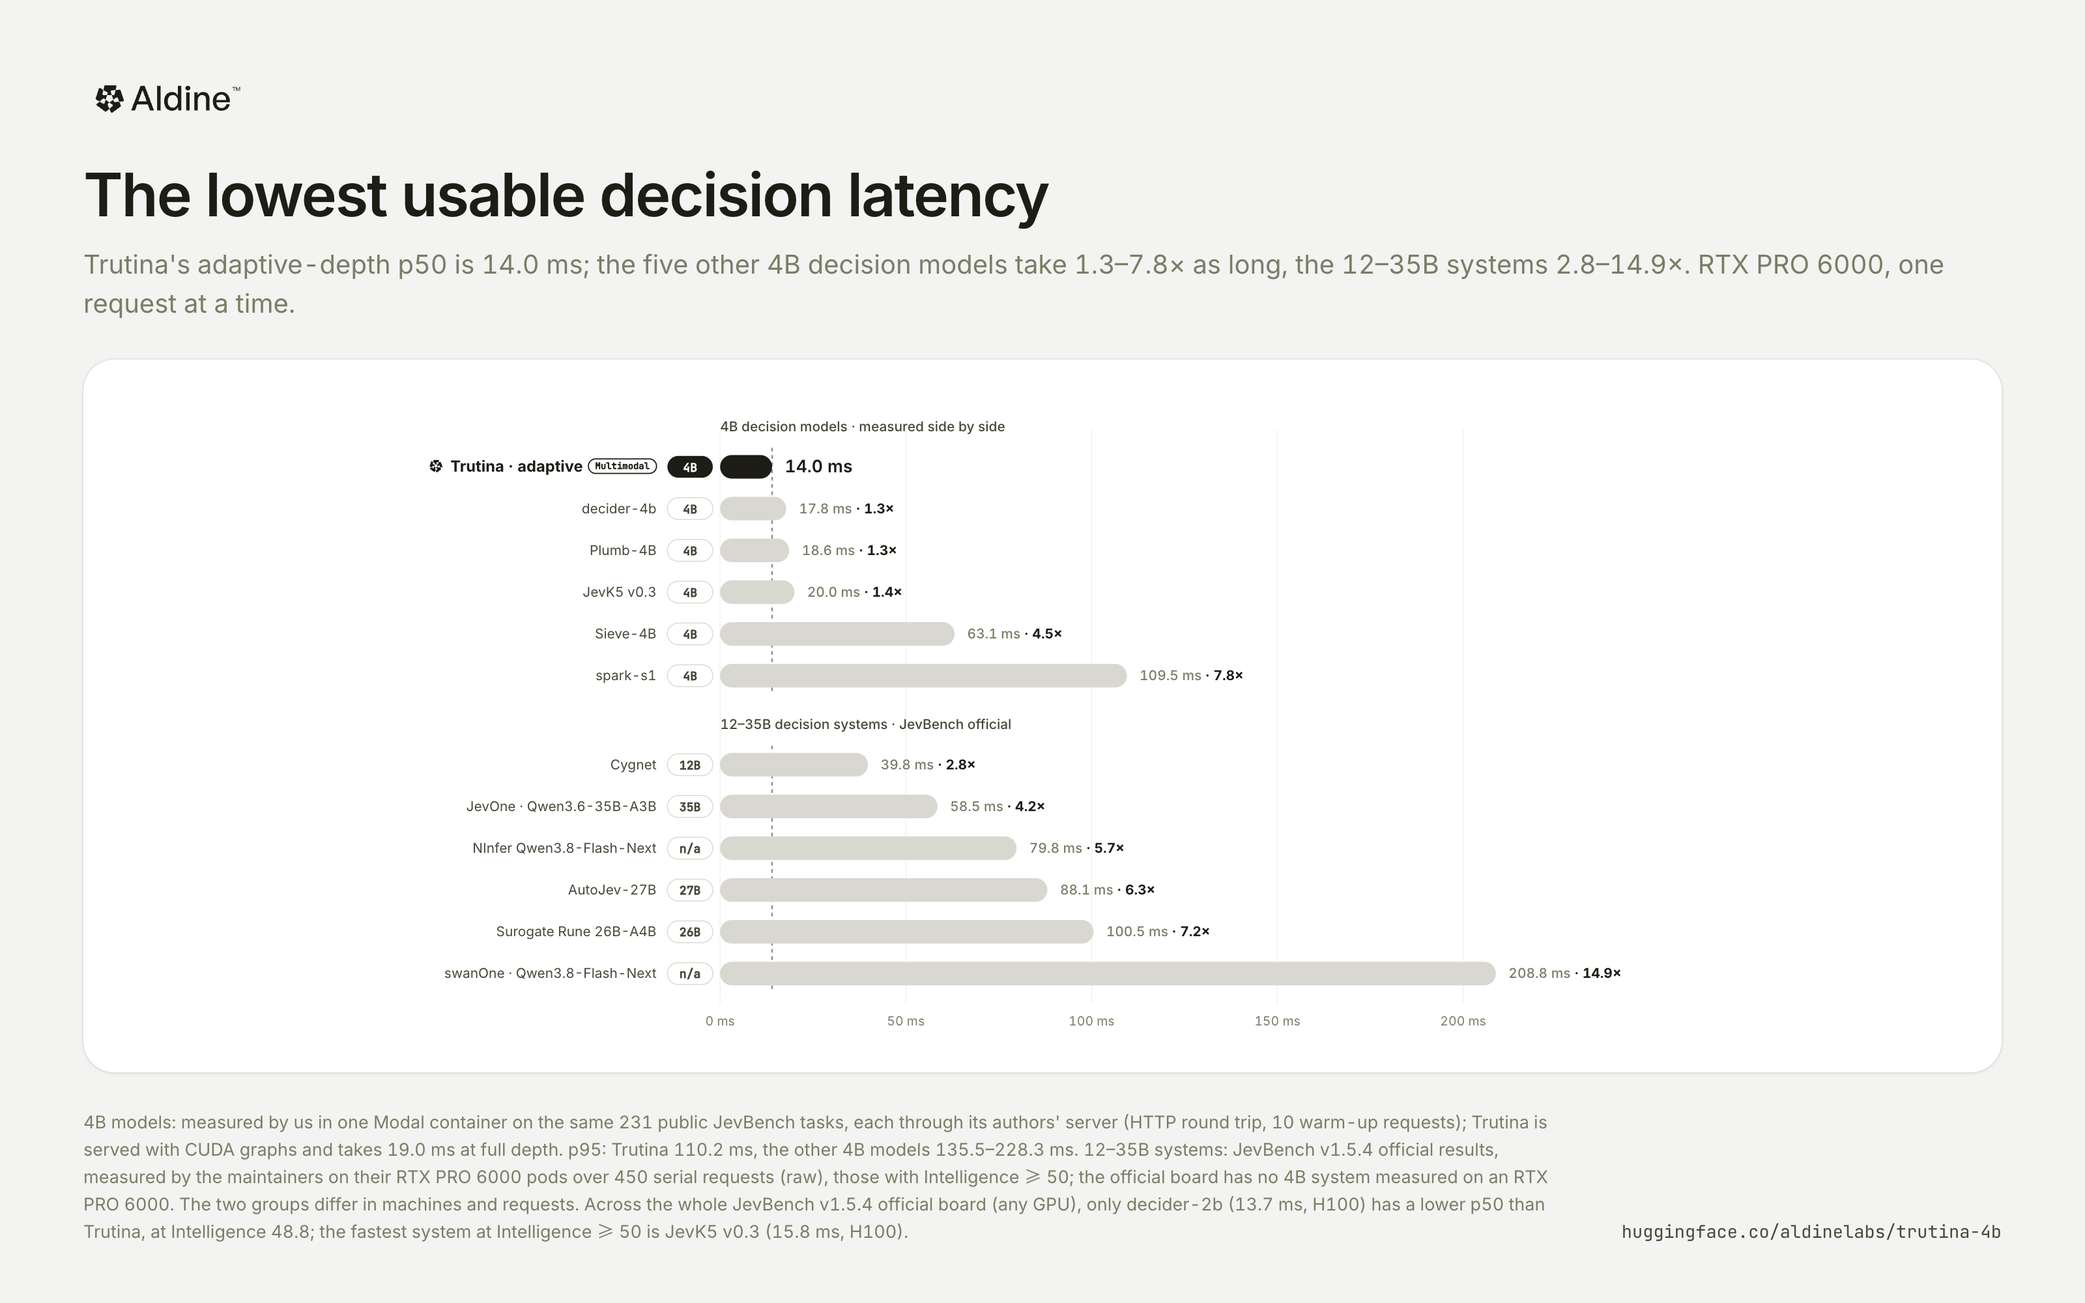
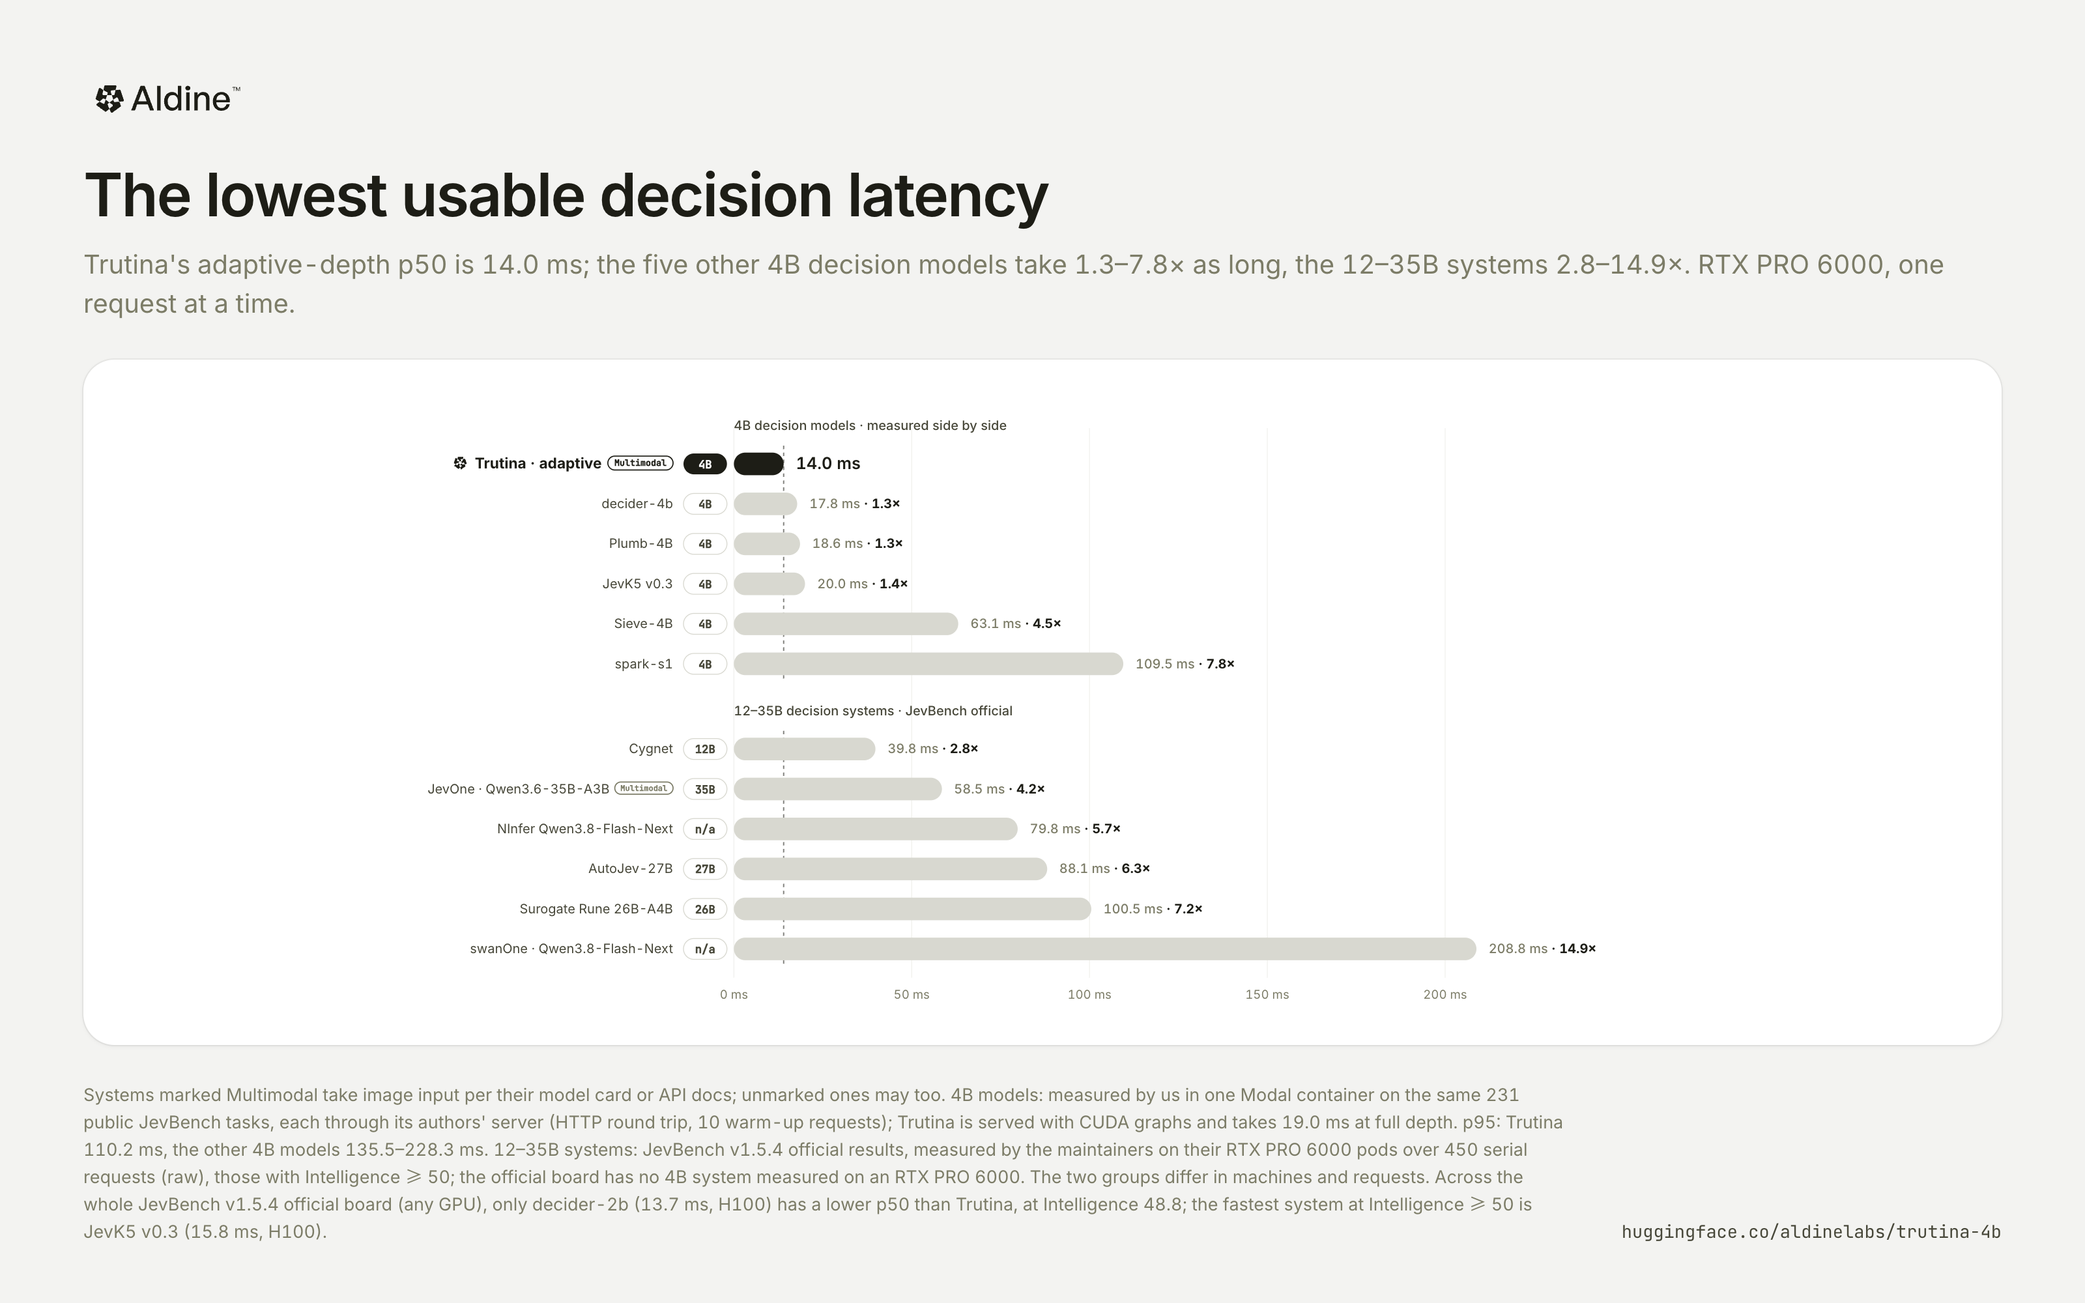
docs: charts mark every system confirmed to take images as multimodal, not only Trutina

Changed region(s): [[0.2188, 0.31, 0.7188, 0.775], [0.0312, 0.837, 0.75, 0.961]]

diff --git a/assets/charts/charts.html b/assets/charts/charts.html
@@ -111,23 +111,27 @@ const esc = s => String(s).replace(/[&<>"]/g, c => ({ "&": "&amp;", "<": "&lt;",
 const fmt1 = v => (Math.round(v * 10) / 10).toFixed(1);
 const ms = " ms";
 const MARK = "brand/aldine-symbol.svg", MK = `<img class="mk" src="${MARK}" alt="">`, PILL = `<span class="pill4">4B</span>`;
+const VNOTE = () => zh ? "标「多模态」的系统经模型卡或 API 文档确认可接受图像输入；未标注的不一定不支持。" : "Systems marked Multimodal take image input per their model card or API docs; unmarked ones may too. ";
+const VISION = n => /^(JevOne|GPT-6 Luna|GPT-5\.6 Luna|Celeris-1|Decider v1\.1)/.test(n);
 const VIS = zh ? "多模态" : "Multimodal", VPILL = `<span class="pill4 pillv">${VIS}</span>`;
 
 /* The Aldine symbol beside every label of ours: each SVG text.lbl-us gets the mark to its left, sized to the text. */
 function placeMarks() {
   const NS = "http://www.w3.org/2000/svg", el = (n, a) => { const e = document.createElementNS(NS, n); for (const k in a) e.setAttribute(k, a[k]); return e; };
-  for (const t of document.querySelectorAll("svg text.lbl-us")) {
+  for (const t of document.querySelectorAll("svg text.lbl-us, svg text[data-vision]")) {
+    const us = t.classList.contains("lbl-us");
     let b = t.getBBox();
     const h = b.height, s = Math.round(h * 0.92);
     // pills after the name: the dark 4B pill unless data-nopill, an outlined multimodal pill with data-vision;
     // a right-aligned label moves left to make room
-    const pills = [...(t.hasAttribute("data-nopill") ? [] : [["4B", true]]), ...(t.hasAttribute("data-vision") ? [[VIS, false]] : [])];
+    const pills = [...(t.hasAttribute("data-nopill") || !us ? [] : [["4B", true]]), ...(t.hasAttribute("data-vision") ? [[VIS, false]] : [])];
     if (pills.length) {
       const ph = Math.round(h * 0.78), gap = Math.round(h * 0.32), end = t.getAttribute("text-anchor") === "end";
       let after = t;
       const made = pills.map(([label, dark]) => {
-        const r = el("rect", { height: ph, rx: ph / 2, fill: dark ? "var(--fg)" : "var(--card)", stroke: dark ? "none" : "var(--fg)", "stroke-width": 1.3 });
-        const tx = el("text", { "text-anchor": "middle", style: `font: 600 ${Math.round(ph * 0.62)}px var(--mono); fill: ${dark ? "#fff" : "var(--fg)"}` });
+        const ink = us ? "var(--fg)" : "var(--muted)";
+        const r = el("rect", { height: ph, rx: ph / 2, fill: dark ? "var(--fg)" : "var(--card)", stroke: dark ? "none" : ink, "stroke-width": 1.3 });
+        const tx = el("text", { "text-anchor": "middle", style: `font: 600 ${Math.round(ph * 0.62)}px var(--mono); fill: ${dark ? "#fff" : ink}` });
         tx.textContent = label;
         after.after(r); r.after(tx); after = tx;
         const w = Math.max(Math.round(ph * 2.05), Math.ceil(tx.getComputedTextLength() + ph * 0.9));
@@ -143,7 +147,7 @@ function placeMarks() {
       }
       b = t.getBBox();
     }
-    t.parentNode.insertBefore(el("image", { href: MARK, width: s, height: s, x: b.x - s - s * 0.38, y: b.y + (b.height - s) / 2 }), t);
+    if (us) t.parentNode.insertBefore(el("image", { href: MARK, width: s, height: s, x: b.x - s - s * 0.38, y: b.y + (b.height - s) / 2 }), t);
   }
 }
 
@@ -194,7 +198,7 @@ function pareto() {
                 "Open Jev JSON Canvas": [10, 20, "start"], "OpenJev": [10, 20, "start"], "GPT-5.6 Luna": [-10, 18, "end"], "GPT-6 Luna": [-10, -10, "end"] };
   for (const r of front.filter(r => !r.us)) {
     const L = lab[r.name] || [10, -10, "start"];
-    g += `<text class="lbl" x="${x(r.p50) + L[0]}" y="${y(r.i) + L[1]}" text-anchor="${L[2]}" style="font-size:13px">${esc(r.name)} <tspan class="lbl-sub" style="font-size:12px">${fmt1(r.i)}</tspan></text>`;
+    g += `<text class="lbl" ${VISION(r.name) ? "data-vision" : ""} x="${x(r.p50) + L[0]}" y="${y(r.i) + L[1]}" text-anchor="${L[2]}" style="font-size:13px">${esc(r.name)} <tspan class="lbl-sub" style="font-size:12px">${fmt1(r.i)}</tspan></text>`;
   }
   for (const r of rows.filter(r => r.us)) {
     const cx = x(r.p50), cy = y(r.i), ad = r.mode === "adaptive";
@@ -220,12 +224,12 @@ function pareto() {
     title: "进一步推进准确率与速度的帕累托前沿",
     sub: `JevBench v1.5.4 官方榜单上 Intelligence ≥ 40 的 ${n} 个系统。按预估分，Trutina 的两种深度都落在前沿上，是 30 ms 以内唯一高于 62 分的系统。`,
     body: `<div class="card">${legend}${svgTag(W, H)}${g}</svg></div>`,
-    src: `其他系统的 Intelligence 与 p50 均为 JevBench v1.5.4 官方结果（原始延迟，在各自的测试机上测得，GPU 型号不一；经 API 评测的系统含网络往返）。Trutina 尚未经官方评测，位置为预估：延迟为我们在 RTX PRO 6000 上串行处理 231 道公开题的 p50；分数为我们按 v1.5 规则在这 231 题上的自测分，加上同一批权重的官方分与我们自测分之差的平均值（JevK5 v0.3 ${o.jevk5}、Plumb-4B ${o.plumb}、spark-s1 +${o.spark}，平均 ${B.offset_mean}），竖线为按这三个差值的最小与最大值换算出的范围。官方分含未公开的密封题，与自测分口径不同，这只是近似。`,
+    src: `${VNOTE()}其他系统的 Intelligence 与 p50 均为 JevBench v1.5.4 官方结果（原始延迟，在各自的测试机上测得，GPU 型号不一；经 API 评测的系统含网络往返）。Trutina 尚未经官方评测，位置为预估：延迟为我们在 RTX PRO 6000 上串行处理 231 道公开题的 p50；分数为我们按 v1.5 规则在这 231 题上的自测分，加上同一批权重的官方分与我们自测分之差的平均值（JevK5 v0.3 ${o.jevk5}、Plumb-4B ${o.plumb}、spark-s1 +${o.spark}，平均 ${B.offset_mean}），竖线为按这三个差值的最小与最大值换算出的范围。官方分含未公开的密封题，与自测分口径不同，这只是近似。`,
   } : {
     title: "Pushing the accuracy–speed frontier further",
     sub: `The ${n} systems on the JevBench v1.5.4 official board with Intelligence ≥ 40. On its estimated score, Trutina sits on the frontier at both depths, the only system under 30 ms above 62.`,
     body: `<div class="card">${legend}${svgTag(W, H)}${g}</svg></div>`,
-    src: `Other systems: JevBench v1.5.4 official Intelligence and p50 (raw latency, measured on each system's own pod, GPU types differ; systems scored via API include the network round trip). Trutina has no official score yet, so its position is an estimate: latency is our serial p50 on an RTX PRO 6000 over the 231 public tasks; the score is our own v1.5-rules score on those tasks plus the mean official-minus-ours difference on the same weights run both ways (JevK5 v0.3 ${o.jevk5}, Plumb-4B ${o.plumb}, spark-s1 +${o.spark}; mean ${B.offset_mean}), and the bar spans the smallest to the largest of those differences. The official score includes sealed tasks our run cannot see, so this is an approximation.`,
+    src: `${VNOTE()}Other systems: JevBench v1.5.4 official Intelligence and p50 (raw latency, measured on each system's own pod, GPU types differ; systems scored via API include the network round trip). Trutina has no official score yet, so its position is an estimate: latency is our serial p50 on an RTX PRO 6000 over the 231 public tasks; the score is our own v1.5-rules score on those tasks plus the mean official-minus-ours difference on the same weights run both ways (JevK5 v0.3 ${o.jevk5}, Plumb-4B ${o.plumb}, spark-s1 +${o.spark}; mean ${B.offset_mean}), and the bar spans the smallest to the largest of those differences. The official score includes sealed tasks our run cannot see, so this is an approximation.`,
   });
 }
 
@@ -325,7 +329,7 @@ function bigger() {
     g += `<line x1="${x(ad.p50)}" x2="${x(ad.p50)}" y1="${y + 2}" y2="${y + rs.length * rowH - 2}" stroke="var(--fg)" stroke-width="1.5" stroke-dasharray="4 4" opacity=".55"/>`;
     for (const r of rs) {
       const cy = y + rowH / 2, k = r.p50 / ad.p50;
-      g += `<text class="${r.us ? "lbl-us" : "lbl"}" data-nopill ${r.us ? "data-vision" : ""} x="${lx - 70}" y="${cy + 5}" text-anchor="end" style="font-size:${r.us ? 17 : 15}px">${esc(name(r))}</text>`;
+      g += `<text class="${r.us ? "lbl-us" : "lbl"}" data-nopill ${r.us || VISION(r.name) ? "data-vision" : ""} x="${lx - 70}" y="${cy + 5}" text-anchor="end" style="font-size:${r.us ? 17 : 15}px">${esc(name(r))}</text>`;
       g += chip(lx - 58, cy, r.size === "?" ? (zh ? "未公开" : "n/a") : r.size, r.us);
       g += bar(lx, cy - 13, x(r.p50) - lx, 26, r.us ? "var(--fg)" : "var(--pale)");
       g += r.us
@@ -341,12 +345,12 @@ function bigger() {
     title: "业界最低可用决策延迟",
     sub: `Trutina 自适应深度的 p50 为 ${fmt1(ad.p50)} ms；另外 5 个 4B 决策模型为其 ${rng(s4)} 倍，12–35B 系统为 ${rng(sl)} 倍。RTX PRO 6000，串行单请求。`,
     body: `<div class="card">${svgTag(W, H)}${g}</svg></div>`,
-    src: `4B 模型由我们在同一 Modal 容器、同一 231 道 JevBench 公开题上测得，各用其作者提供的服务端（HTTP 往返，预热 10 条）；Trutina 经 CUDA graph 服务，完整深度为 ${fmt1(full.p50)} ms。p95：Trutina ${fmt1(ad.p95)} ms，另外 5 个 4B 为 ${fmt1(Math.min(...p95s))}–${fmt1(Math.max(...p95s))} ms。12–35B 系统为 JevBench v1.5.4 官方结果，由维护方在其 RTX PRO 6000 测试机上以 450 个请求串行测得（原始值），取 Intelligence ≥ 50 者；官方榜单上没有在 RTX PRO 6000 上测得的 4B 系统。两组的测试机与请求集不同。在整个 JevBench v1.5.4 官方榜单（各型号 GPU）上，p50 低于 Trutina 的只有 decider-2b（13.7 ms，H100），其 Intelligence 为 48.8；Intelligence ≥ 50 的系统中最快的是 JevK5 v0.3（15.8 ms，H100）。`,
+    src: `${VNOTE()}4B 模型由我们在同一 Modal 容器、同一 231 道 JevBench 公开题上测得，各用其作者提供的服务端（HTTP 往返，预热 10 条）；Trutina 经 CUDA graph 服务，完整深度为 ${fmt1(full.p50)} ms。p95：Trutina ${fmt1(ad.p95)} ms，另外 5 个 4B 为 ${fmt1(Math.min(...p95s))}–${fmt1(Math.max(...p95s))} ms。12–35B 系统为 JevBench v1.5.4 官方结果，由维护方在其 RTX PRO 6000 测试机上以 450 个请求串行测得（原始值），取 Intelligence ≥ 50 者；官方榜单上没有在 RTX PRO 6000 上测得的 4B 系统。两组的测试机与请求集不同。在整个 JevBench v1.5.4 官方榜单（各型号 GPU）上，p50 低于 Trutina 的只有 decider-2b（13.7 ms，H100），其 Intelligence 为 48.8；Intelligence ≥ 50 的系统中最快的是 JevK5 v0.3（15.8 ms，H100）。`,
   } : {
     title: "The lowest usable decision latency",
     sub: `Trutina's adaptive-depth p50 is ${fmt1(ad.p50)} ms; the five other 4B decision models take ${rng(s4)}× as long, the 12–35B systems ${rng(sl)}×. RTX PRO 6000, one request at a time.`,
     body: `<div class="card">${svgTag(W, H)}${g}</svg></div>`,
-    src: `4B models: measured by us in one Modal container on the same 231 public JevBench tasks, each through its authors' server (HTTP round trip, 10 warm-up requests); Trutina is served with CUDA graphs and takes ${fmt1(full.p50)} ms at full depth. p95: Trutina ${fmt1(ad.p95)} ms, the other 4B models ${fmt1(Math.min(...p95s))}–${fmt1(Math.max(...p95s))} ms. 12–35B systems: JevBench v1.5.4 official results, measured by the maintainers on their RTX PRO 6000 pods over 450 serial requests (raw), those with Intelligence ≥ 50; the official board has no 4B system measured on an RTX PRO 6000. The two groups differ in machines and requests. Across the whole JevBench v1.5.4 official board (any GPU), only decider-2b (13.7 ms, H100) has a lower p50 than Trutina, at Intelligence 48.8; the fastest system at Intelligence ≥ 50 is JevK5 v0.3 (15.8 ms, H100).`,
+    src: `${VNOTE()}4B models: measured by us in one Modal container on the same 231 public JevBench tasks, each through its authors' server (HTTP round trip, 10 warm-up requests); Trutina is served with CUDA graphs and takes ${fmt1(full.p50)} ms at full depth. p95: Trutina ${fmt1(ad.p95)} ms, the other 4B models ${fmt1(Math.min(...p95s))}–${fmt1(Math.max(...p95s))} ms. 12–35B systems: JevBench v1.5.4 official results, measured by the maintainers on their RTX PRO 6000 pods over 450 serial requests (raw), those with Intelligence ≥ 50; the official board has no 4B system measured on an RTX PRO 6000. The two groups differ in machines and requests. Across the whole JevBench v1.5.4 official board (any GPU), only decider-2b (13.7 ms, H100) has a lower p50 than Trutina, at Intelligence 48.8; the fastest system at Intelligence ≥ 50 is JevK5 v0.3 (15.8 ms, H100).`,
   });
 }
 
@@ -360,7 +364,7 @@ function typed() {
   for (const t of [0, 20, 40, 60, 80, 100]) g += `<line x1="${x(t)}" x2="${x(t)}" y1="${top - 4}" y2="${H - 34}" stroke="var(--grid)"/><text class="axis" x="${x(t)}" y="${H - 10}" text-anchor="middle">${t}</text>`;
   rows.forEach((r, i) => {
     const cy = top + i * rowH + rowH / 2, a = r.acc / 2, c = Math.max(r.cal, 0) / 2, col = r.ours ? "var(--fg)" : LLM(r) ? "var(--llm)" : "var(--muted)";
-    g += `<text class="${r.us ? "lbl-us" : r.ours ? "lbl-us" : "lbl"}" data-nopill x="${lx - 80}" y="${cy + 1}" text-anchor="end" style="font-size:${r.ours ? 17 : 15}px">${esc(r.name)}</text>`;
+    g += `<text class="${r.us ? "lbl-us" : r.ours ? "lbl-us" : "lbl"}" data-nopill ${r.ours || VISION(r.name) ? "data-vision" : ""} x="${lx - 80}" y="${cy + 1}" text-anchor="end" style="font-size:${r.ours ? 17 : 15}px">${esc(r.name)}</text>`;
     g += `<text class="lbl-sub" x="${lx - 80}" y="${cy + 19}" text-anchor="end">${zh ? "准确率" : "accuracy"} ${r.acc.toFixed(1)}% · Brier ${r.brier.toFixed(3)}</text>`;
     g += chip(lx - 66, cy, size(r), r.ours);
     g += `<rect x="${x(0)}" y="${cy - 14}" width="${x(a) - x(0)}" height="28" rx="6" fill="${col}"/>`;
@@ -375,12 +379,12 @@ function typed() {
     title: "将前沿决策智能以真正可部署的尺寸开放给每一个人",
     sub: `typed-decisions 测试集 2,000 题（400 个案例 × 5 题）。指数为准确率与校准分各占一半。Trutina 为 ${us.index.toFixed(1)}，仅次于闭源的 Celeris-1，高于 Decider v1.1 27B（${d27.index.toFixed(1)}）、Jev 1.13.0 与 GPT-6 Luna。`,
     body: `<div class="card">${legend}${svgTag(W, H)}${g}</svg></div>`,
-    src: `指数 = ½ × 准确率 + ½ × 校准分，校准分 = 100 ×（1 − Brier ÷ 均匀猜测的 Brier），均匀猜测在该测试集上的 Brier 为 ${D.typed.brier_uniform}；Mercury Decide 的 Brier 高于均匀猜测，校准分记为 0。除 Trutina 外，准确率与 Brier 取自 Celeris-1 Decision 发布时公布的对比表（评测框架 0cfd276，由 Celeris 自行测得，经 benchlm.ai 汇总），未能返回分布的请求按均匀分布计分。Trutina 为已发布权重、完整深度，由我们在同一测试集上测得；Brier 按每题各选项与软标签之差的平方和计算，Celeris 未公布其切分与 Brier 的归一化方式。`,
+    src: `${VNOTE()}指数 = ½ × 准确率 + ½ × 校准分，校准分 = 100 ×（1 − Brier ÷ 均匀猜测的 Brier），均匀猜测在该测试集上的 Brier 为 ${D.typed.brier_uniform}；Mercury Decide 的 Brier 高于均匀猜测，校准分记为 0。除 Trutina 外，准确率与 Brier 取自 Celeris-1 Decision 发布时公布的对比表（评测框架 0cfd276，由 Celeris 自行测得，经 benchlm.ai 汇总），未能返回分布的请求按均匀分布计分。Trutina 为已发布权重、完整深度，由我们在同一测试集上测得；Brier 按每题各选项与软标签之差的平方和计算，Celeris 未公布其切分与 Brier 的归一化方式。`,
   } : {
     title: "Frontier decision intelligence, open to all at a deployable size",
     sub: `typed-decisions test, 2,000 questions (400 cases × 5). The index weighs accuracy and calibration equally. Trutina scores ${us.index.toFixed(1)}, second only to the closed Celeris-1 and above Decider v1.1 27B (${d27.index.toFixed(1)}), Jev 1.13.0 and GPT-6 Luna.`,
     body: `<div class="card">${legend}${svgTag(W, H)}${g}</svg></div>`,
-    src: `Index = ½ × accuracy + ½ × calibration, calibration = 100 × (1 − Brier ÷ the Brier of a uniform guess), which is ${D.typed.brier_uniform} on this test; Mercury Decide's Brier is above the uniform guess's, so its calibration counts as 0. Other systems' accuracy and Brier: the table Celeris published with Celeris-1 Decision (harness 0cfd276, measured by Celeris, collected by benchlm.ai), requests without a distribution scored as uniform. Trutina: released weights at full depth, measured by us on the same test; Brier is the per-question sum over options of the squared difference to the soft label. Celeris did not publish its split or Brier normalisation.`,
+    src: `${VNOTE()}Index = ½ × accuracy + ½ × calibration, calibration = 100 × (1 − Brier ÷ the Brier of a uniform guess), which is ${D.typed.brier_uniform} on this test; Mercury Decide's Brier is above the uniform guess's, so its calibration counts as 0. Other systems' accuracy and Brier: the table Celeris published with Celeris-1 Decision (harness 0cfd276, measured by Celeris, collected by benchlm.ai), requests without a distribution scored as uniform. Trutina: released weights at full depth, measured by us on the same test; Brier is the per-question sum over options of the squared difference to the soft label. Celeris did not publish its split or Brier normalisation.`,
   });
 }
 
